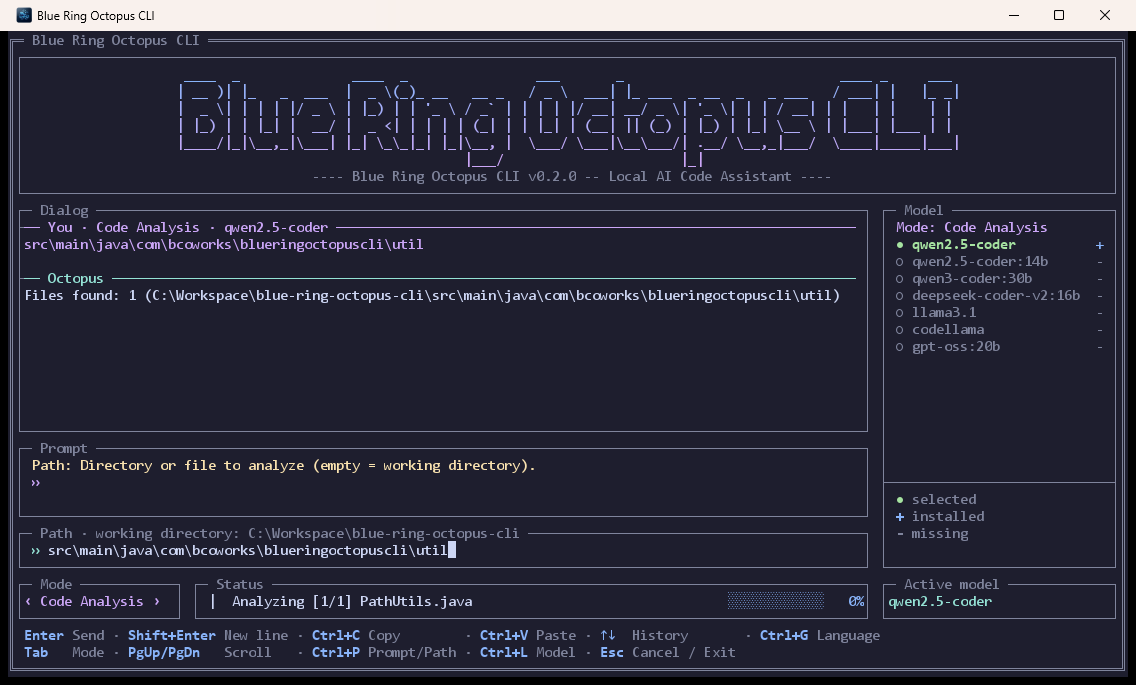
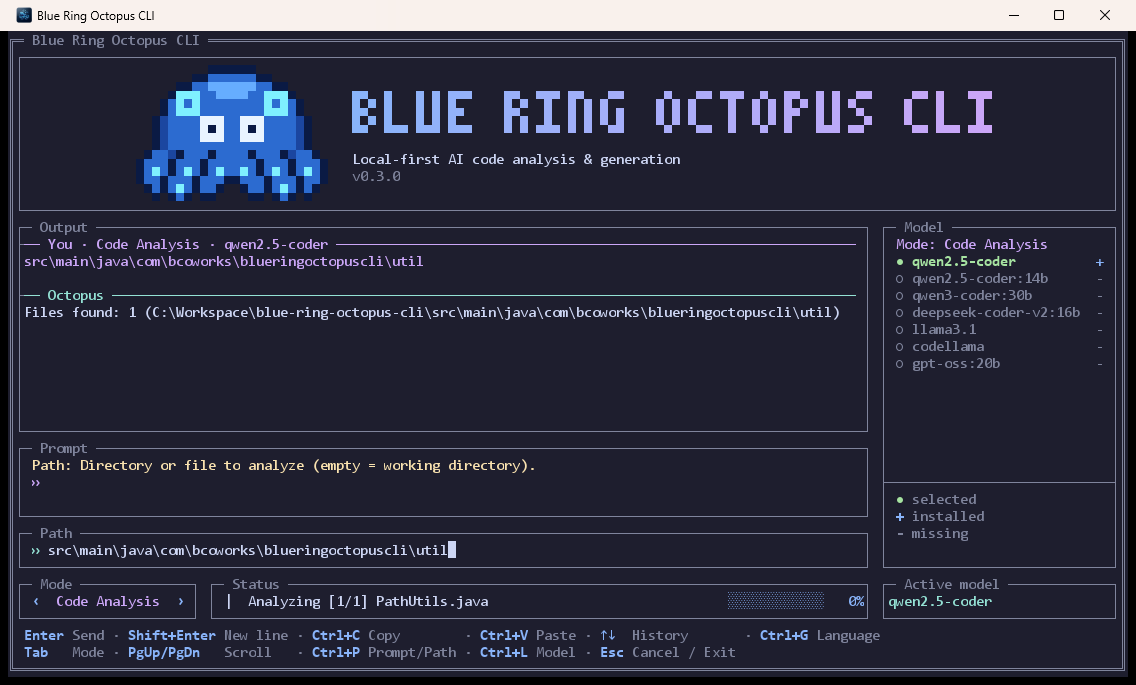
docs: mouse selection, Output box and refreshed screenshots; bump to 0.3.0

diff --git a/docs/USAGE.md b/docs/USAGE.md
@@ -39,7 +39,7 @@ java --enable-native-access=ALL-UNNAMED -jar blue-ring-octopus-cli.jar
 ┌ Blue Ring Octopus CLI ───────────────────────────────────────────────────────┐
 │ ┌ banner ──────────────────────────────────────────────────────────────────┐ │
 │ └──────────────────────────────────────────────────────────────────────────┘ │
-│ ┌ Dialog ─────────────────────────────────────────────┐ ┌ Model ──────────┐ │
+│ ┌ Output ─────────────────────────────────────────────┐ ┌ Model ──────────┐ │
 │ │ requests and answers of the session                 │ │ model for the   │ │
 │ └─────────────────────────────────────────────────────┘ │ current mode    │ │
 │ ┌ Prompt ─────────────────────────────────────────────┐ │ ● selected      │ │
@@ -52,11 +52,11 @@ java --enable-native-access=ALL-UNNAMED -jar blue-ring-octopus-cli.jar
 └──────────────────────────────────────────────────────────────────────────────┘
 ```
 
-The **Dialog** box is a conversation: every request appears under a "You" heading with the mode and model, and
+The **Output** box is the conversation: every request appears under a "You" heading with the mode and model, and
 the answer under "Octopus". It starts empty. The history of the session stays in memory (up to 5000 lines) and is gone
-when you quit. The view follows the newest message; scroll up to read earlier ones and it stops following until you
-scroll back to the bottom. The **Prompt** box below it is where you type; the line above the input tells what the
-current mode expects.
+when you quit. Every new message scrolls the view to the bottom; scroll up to read earlier ones. You can select text
+in it with the mouse and copy it (see Mouse below). The **Prompt** box below it is where you type; the line above the
+input tells what the current mode expects.
 
 On Windows the UI opens in its own window (the title is *Blue Ring Octopus CLI*); closing it with the **X** button
 asks for confirmation. On Linux and macOS it draws inside the current terminal, so use a terminal with true-colour
@@ -74,15 +74,18 @@ and UTF-8 support.
 | <kbd>Ctrl</kbd>+<kbd>L</kbd> | Open (or close) the model panel for the current mode |
 | <kbd>Ctrl</kbd>+<kbd>G</kbd> | Choose the interface language, see [Language](#language) |
 | <kbd>Ctrl</kbd>+<kbd>V</kbd>, <kbd>Shift</kbd>+<kbd>Insert</kbd> | Paste. In the Path field, surrounding quotes from Windows "Copy as path" are removed |
-| <kbd>Ctrl</kbd>+<kbd>C</kbd> | Copy the output of the last run to the clipboard |
+| <kbd>Ctrl</kbd>+<kbd>C</kbd> | Copy the selected text, or the output of the last run when nothing is selected |
 | <kbd>PgUp</kbd> / <kbd>PgDn</kbd> | Scroll the conversation while typing |
 | Mouse wheel | Over the conversation: scroll it. Over the prompt: scroll a long prompt without moving the caret |
 | Left click | On the Prompt or Path box: focus it (clicking inside the text also places the caret) |
+| Left click | On an arrow (<kbd>‹</kbd> <kbd>›</kbd>) of the Mode box: previous / next mode |
+| Left click | On the Model panel: focus it, and on a model move the cursor there. Double click on a model: choose it |
+| Drag, double click, triple click | In the Output box: select text, a word, a line. <kbd>Ctrl</kbd>+<kbd>C</kbd> copies it |
 | <kbd>Esc</kbd> | While a task runs: ask to cancel it. Otherwise: ask to exit |
 
 Typing `exit` (or `cikis`) in the prompt and pressing <kbd>Enter</kbd> also quits.
 
-**Mouse.** Only three things respond to the mouse, on purpose: the wheel over the Dialog box, the wheel over a long prompt, and a left click on the Prompt or Path box. Touchpads (smooth, fractional scrolling) work too. Everything else (modes, the model list, dialogs) stays on the keyboard. Mouse support currently exists in the Windows window only; in a Linux/macOS terminal the mouse keeps its normal behaviour, so you can still select and copy text with it.
+**Mouse.** The mouse does a few things, on purpose: the wheel scrolls the Output box and a long prompt; a left click focuses the Prompt or Path box, switches the mode on the arrows of the Mode box and focuses the Model panel (a double click on a model chooses it); and dragging in the Output box selects text, a double click selects a word and a triple click a line. Touchpads (smooth, fractional scrolling) work too. Everything else (the keys of the model panel, dialogs) stays on the keyboard. Mouse support currently exists in the Windows window only; in a Linux/macOS terminal the mouse keeps its normal behaviour, so you can still select and copy text with it.
 
 ## Modes
 

diff --git a/CHANGELOG.md b/CHANGELOG.md
@@ -8,6 +8,25 @@ contain breaking changes.
 
 ## [Unreleased]
 
+### Added
+
+- **Select and copy text from the Output box with the mouse.** Drag to select, double click for a word, triple click
+  for a line (wrapped rows are joined again). `Ctrl+C` copies the selection, or the last output when nothing is
+  selected.
+- **Mouse access to the model panel and the modes.** A left click on the Model panel focuses it and moves the cursor to
+  the clicked model; a double click chooses it. The `‹` `›` arrows of the Mode box switch to the previous / next mode.
+- A new pixel-art banner: the blue-ringed octopus next to the name in a pixel font.
+
+### Changed
+
+- The **Dialog** box is now called **Output** (Çıktı, Ausgabe, Sortie, Output, Salida). Every new message scrolls it to
+  the bottom, also after scrolling up. `PgUp` / `PgDn` scroll it while the model panel is focused.
+- The Path box title is just "Path"; it used to show the working directory, which never followed the typed path.
+- The banner tagline reads "Local-first AI code analysis & generation" (it was "Local AI Code Assistant").
+- Turkish texts: "Kod Generate" is now "Kod Üretimi" and "Döküman Hazırlama" is "Doküman Hazırlama".
+- The mode constants have English names (`CODE_ANALYSIS`, `CODE_GENERATION`, `DOCUMENTATION`, `UNIT_TESTS`). A
+  `models.properties` written by an older version is still read, and rewritten with the new names on the next save.
+
 ## [0.2.0] - 2026-10-07
 
 ### Added

diff --git a/README.tr.md b/README.tr.md
@@ -140,9 +140,10 @@ Uygulamayı **argümansız** çalıştırınca arayüz açılır. <kbd>Tab</kbd>
 | <kbd>Ctrl</kbd>+<kbd>L</kbd> | Geçerli mod için model panelini açar |
 | <kbd>Ctrl</kbd>+<kbd>G</kbd> | Arayüz dilini seçer (model de bu dilde yanıt verir) |
 | <kbd>Ctrl</kbd>+<kbd>V</kbd> / <kbd>Shift</kbd>+<kbd>Insert</kbd> | Panodan yapıştırır |
-| <kbd>Ctrl</kbd>+<kbd>C</kbd> | Son çıktıyı panoya kopyalar |
-| <kbd>PgUp</kbd> / <kbd>PgDn</kbd>, fare tekerleği | Diyaloğu kaydırır (tekerlek uzun prompt'u da kaydırır) |
-| Sol tık | Prompt ya da Path alanına odaklanır (imleci de yerleştirir) |
+| <kbd>Ctrl</kbd>+<kbd>C</kbd> | Seçili metni, seçim yoksa son çıktıyı panoya kopyalar |
+| <kbd>PgUp</kbd> / <kbd>PgDn</kbd>, fare tekerleği | Çıktıyı kaydırır (tekerlek uzun prompt'u da kaydırır) |
+| Sol tık | Prompt ya da Path alanına odaklanır (imleci de yerleştirir); Mod kutusundaki `‹` `›` oklarında modu değiştirir; Model panelinde panele odaklanır (bir modele çift tık onu seçer) |
+| Sürükle, çift veya üç tık | Çıktı kutusunda metni, bir sözcüğü veya bir satırı seçer |
 | <kbd>Esc</kbd> | Çalışan işlemi iptal eder ya da çıkış sorar |
 
 ### Tek seferlik komutlar

diff --git a/README.md b/README.md
@@ -143,9 +143,10 @@ path, and <kbd>Enter</kbd> runs it.
 | <kbd>Ctrl</kbd>+<kbd>L</kbd> | Open the model panel for the current mode |
 | <kbd>Ctrl</kbd>+<kbd>G</kbd> | Choose the interface language (the model answers in it too) |
 | <kbd>Ctrl</kbd>+<kbd>V</kbd> / <kbd>Shift</kbd>+<kbd>Insert</kbd> | Paste from the clipboard |
-| <kbd>Ctrl</kbd>+<kbd>C</kbd> | Copy the last output to the clipboard |
+| <kbd>Ctrl</kbd>+<kbd>C</kbd> | Copy the selected text, or the last output when nothing is selected |
 | <kbd>PgUp</kbd> / <kbd>PgDn</kbd>, mouse wheel | Scroll the conversation (the wheel also scrolls a long prompt) |
-| Left click | Focus the Prompt or Path field (and place the caret) |
+| Left click | Focus the Prompt or Path field (and place the caret); on the Mode arrows `‹` `›` switch the mode; on the Model panel focus it (a double click on a model chooses it) |
+| Drag, double or triple click | Select text, a word or a line in the Output box |
 | <kbd>Esc</kbd> | Cancel the running task, or ask to exit |
 
 ### One-shot commands
